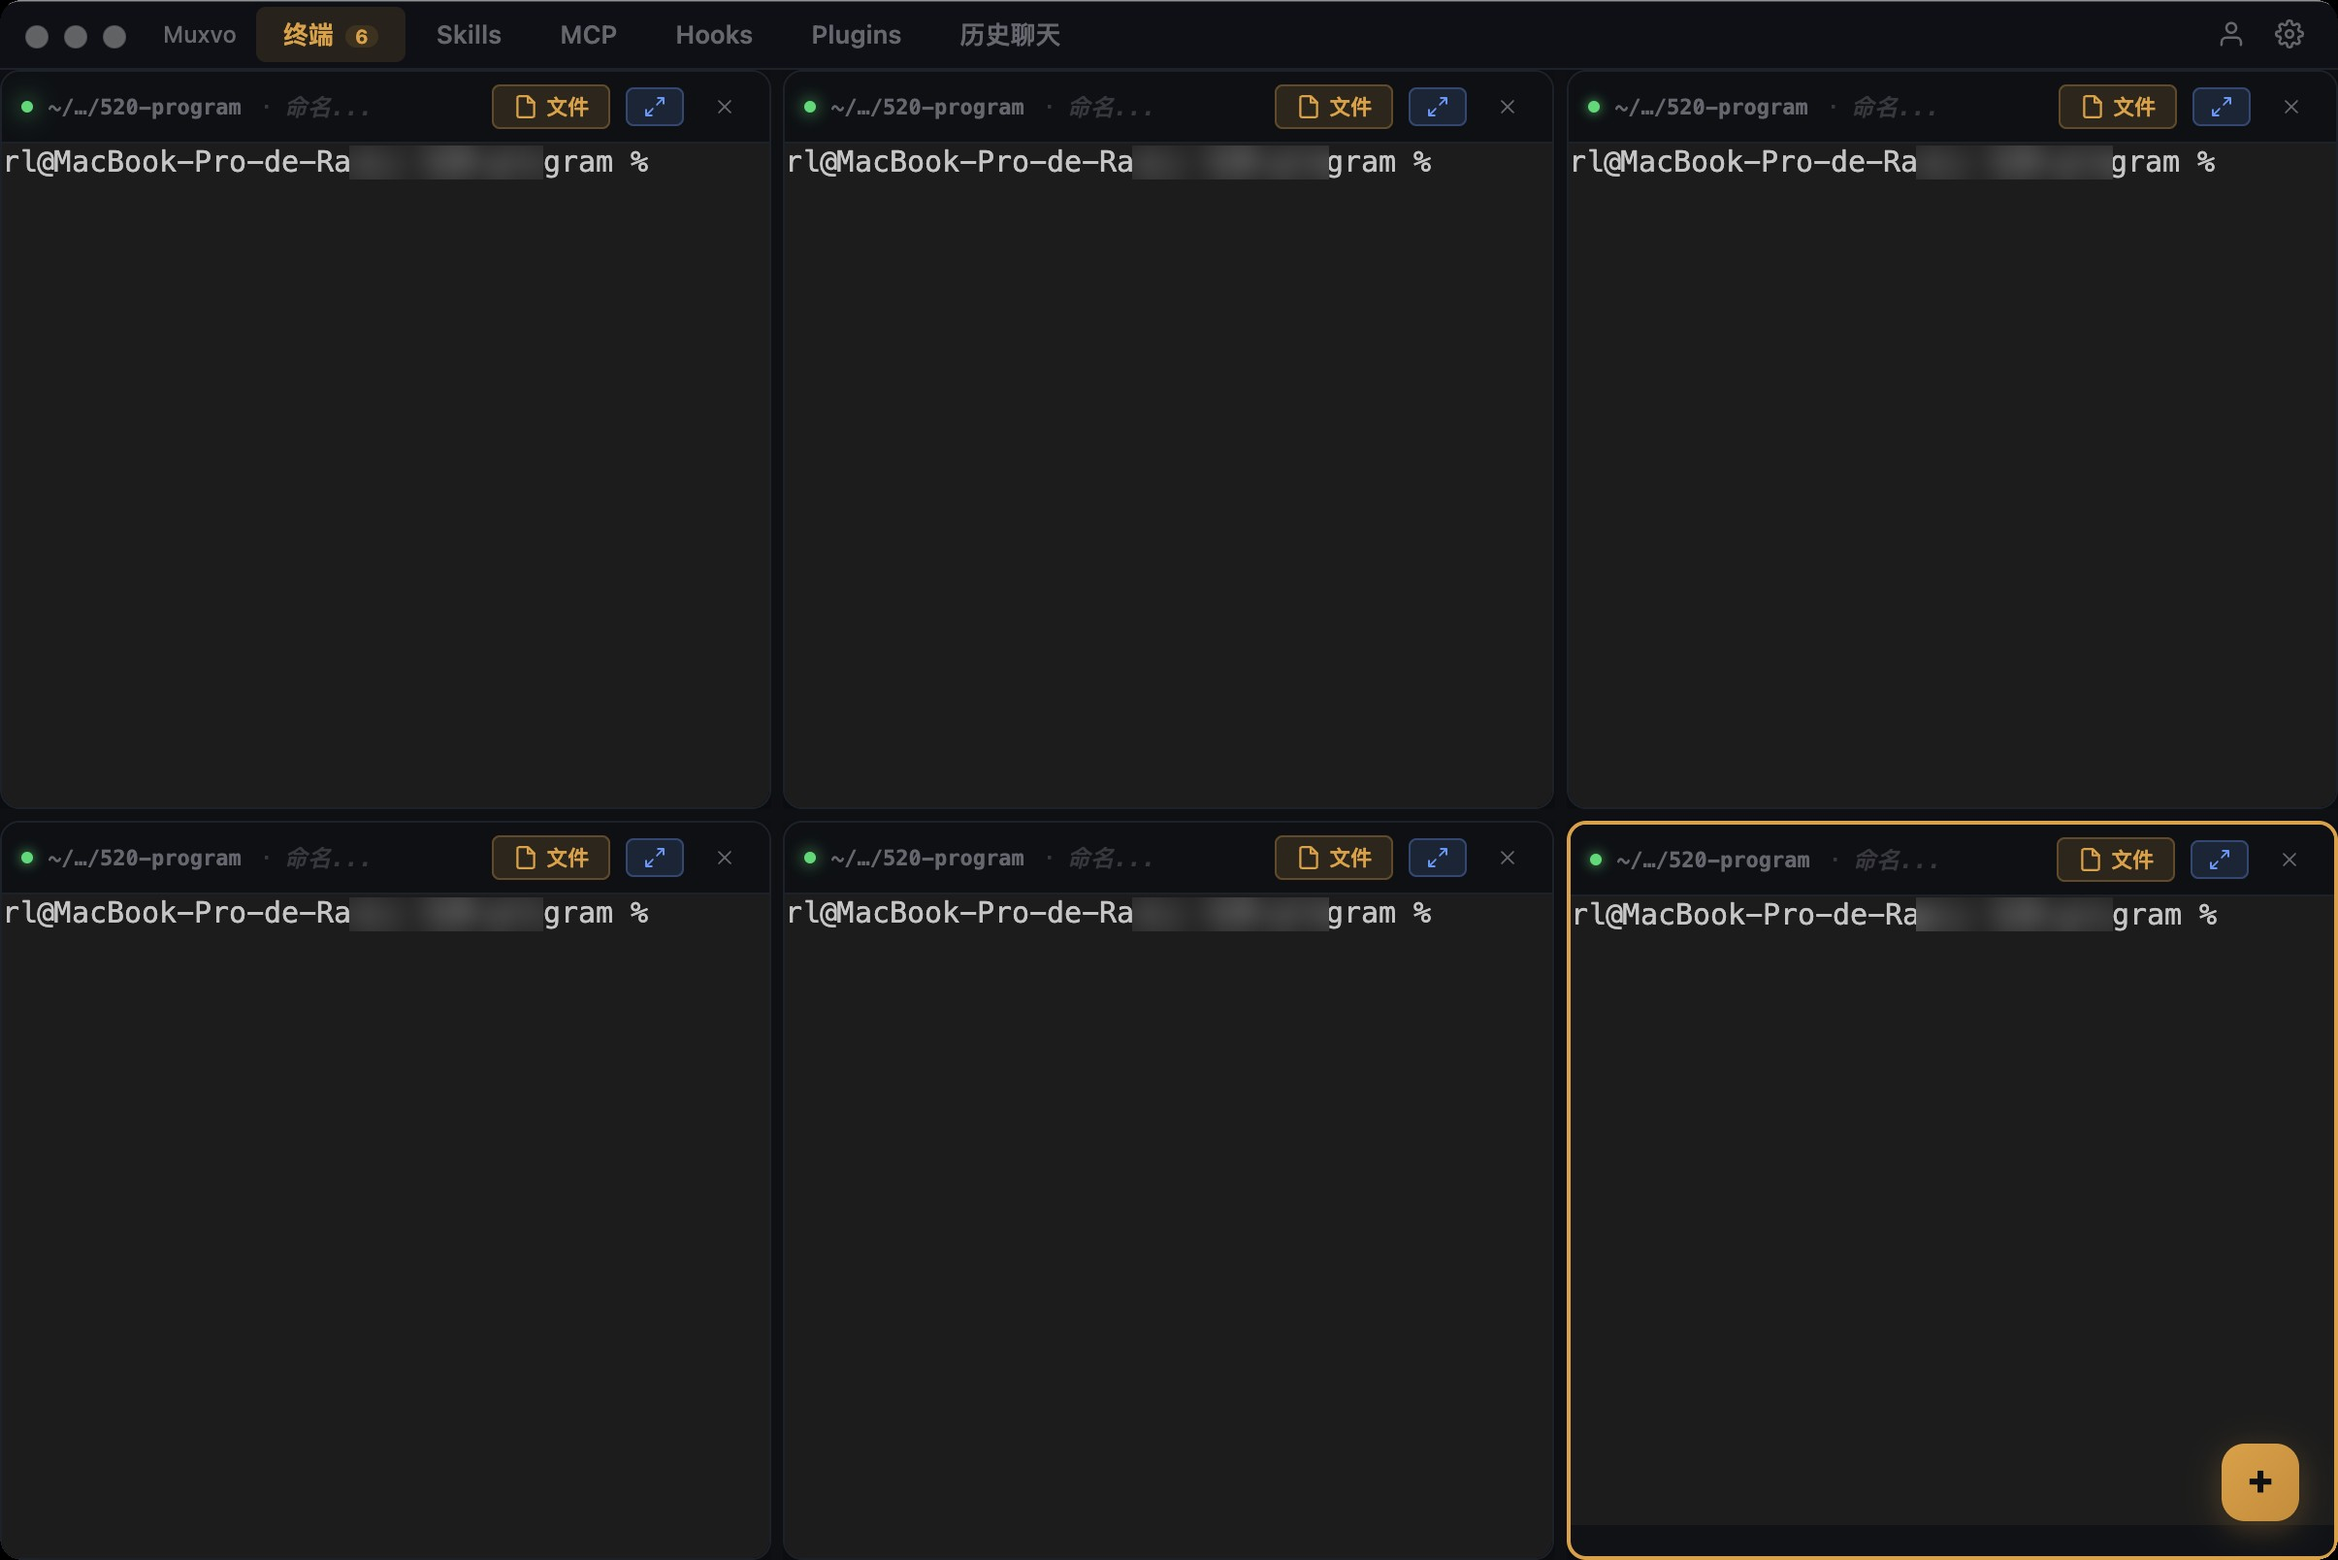
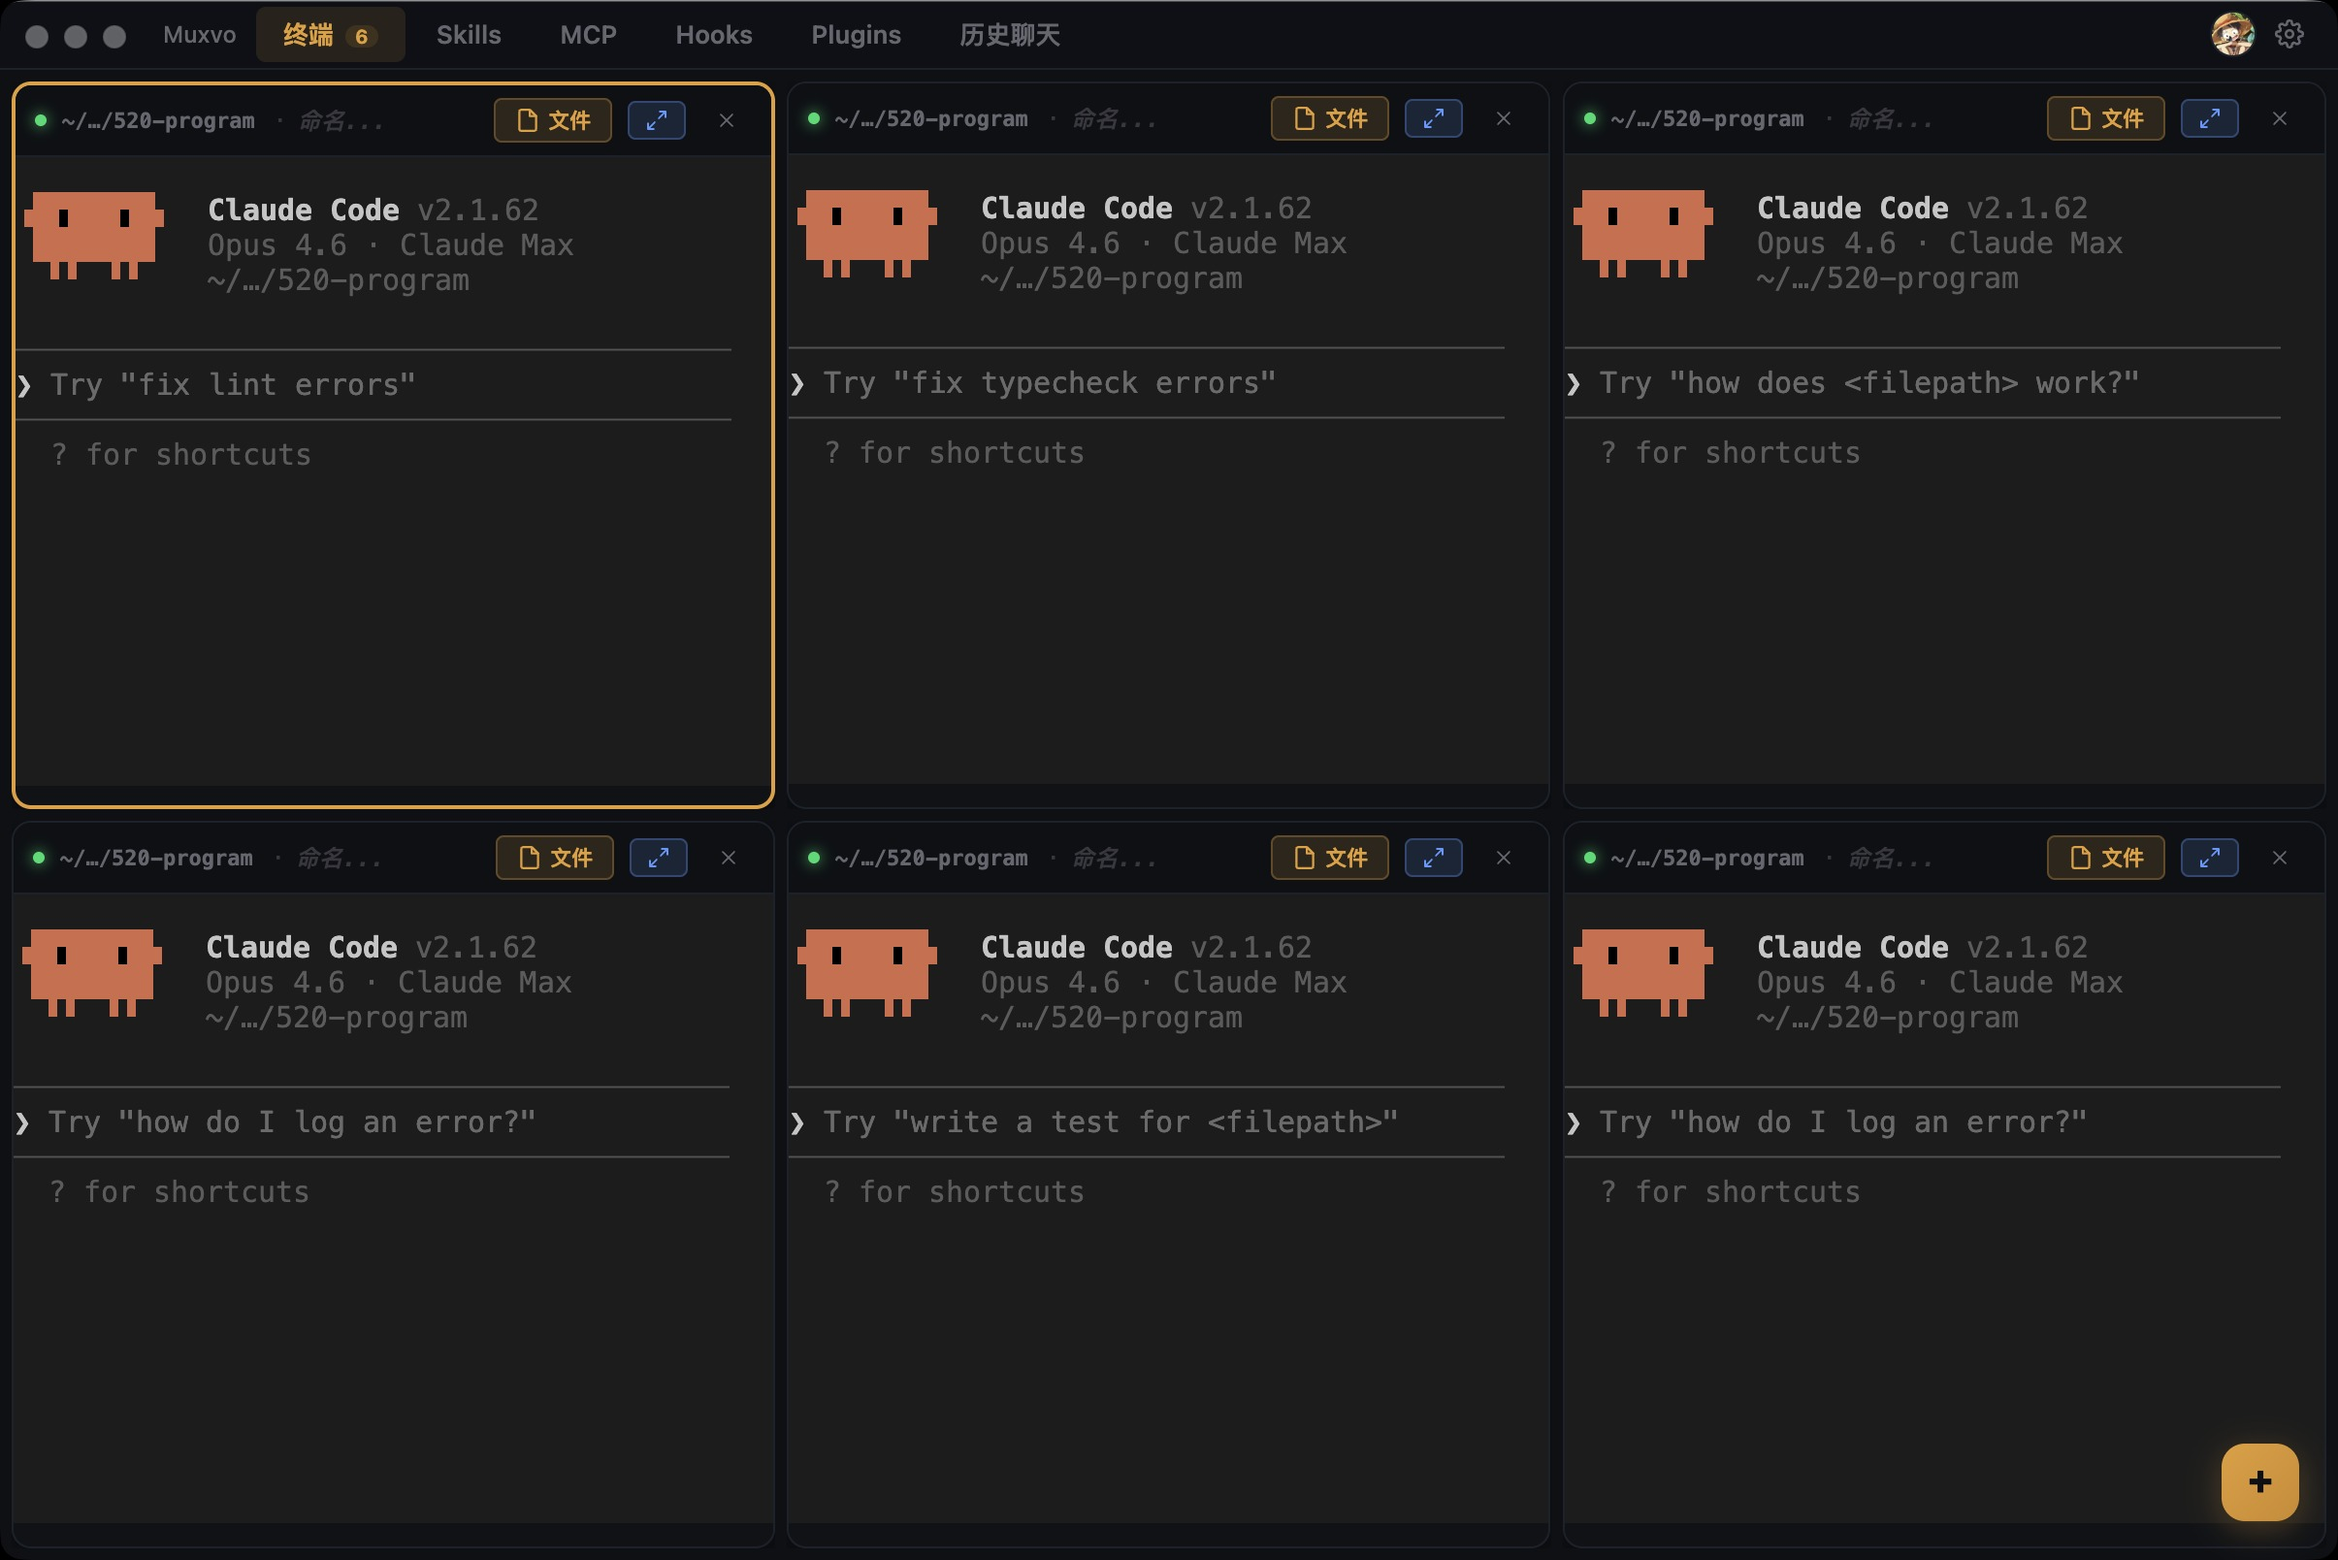
♻ refactor: 移除 node-pg-migrate 依赖并优化部署流程
- 从部署工作流中移除数据库迁移步骤
- 从服务端 package.json 中移除 node-pg-migrate 依赖及相关脚本
- 新增部署迁移验证测试，确保自定义迁移器正确解析 Up/Down 部分
- 更新暗色主题四终端截图

diff --git a/tests/verify/VERIFY-deploy-migration.test.ts b/tests/verify/VERIFY-deploy-migration.test.ts
@@ -1,0 +1,71 @@
+/**
+ * VERIFY: Deploy Server migration 双跑冲突修复
+ *
+ * 验证：
+ * 1. deploy-server.yml 不包含 node-pg-migrate migration step
+ * 2. server/package.json 不依赖 node-pg-migrate
+ * 3. 自定义 migrator (server/src/db/migrate.ts) 的 extractUpSection 正确解析 -- Up/-- Down
+ */
+import { readFileSync } from 'node:fs';
+import { resolve } from 'node:path';
+
+const ROOT = resolve(__dirname, '../..');
+
+describe('Deploy migration conflict fix', () => {
+  test('deploy-server.yml should NOT have node-pg-migrate step', () => {
+    const workflow = readFileSync(
+      resolve(ROOT, '.github/workflows/deploy-server.yml'),
+      'utf-8',
+    );
+    expect(workflow).not.toContain('migrate:up');
+    expect(workflow).not.toContain('node-pg-migrate');
+    expect(workflow).not.toContain('Run database migrations');
+  });
+
+  test('server/package.json should NOT depend on node-pg-migrate', () => {
+    const pkg = JSON.parse(
+      readFileSync(resolve(ROOT, 'server/package.json'), 'utf-8'),
+    );
+    expect(pkg.dependencies?.['node-pg-migrate']).toBeUndefined();
+    expect(pkg.scripts?.['migrate:up']).toBeUndefined();
+    expect(pkg.scripts?.['migrate:down']).toBeUndefined();
+  });
+
+  test('custom migrator extractUpSection correctly splits Up/Down', async () => {
+    // Read the migrate.ts source and extract the function logic
+    const migrateSource = readFileSync(
+      resolve(ROOT, 'server/src/db/migrate.ts'),
+      'utf-8',
+    );
+
+    // Verify the custom migrator exists and has extractUpSection
+    expect(migrateSource).toContain('function extractUpSection');
+    expect(migrateSource).toContain("sql.indexOf('-- Up')");
+    expect(migrateSource).toContain("sql.indexOf('-- Down')");
+
+    // Replicate the extractUpSection logic to verify it works
+    function extractUpSection(sql: string): string {
+      const upIdx = sql.indexOf('-- Up');
+      const downIdx = sql.indexOf('-- Down');
+      if (upIdx === -1) return sql;
+      const start = sql.indexOf('\n', upIdx);
+      if (start === -1) return '';
+      const end = downIdx === -1 ? sql.length : downIdx;
+      return sql.slice(start, end).trim();
+    }
+
+    // Test with a real migration file format
+    const sampleMigration = `-- Up
+CREATE TABLE users (
+    id UUID PRIMARY KEY
+);
+
+-- Down
+DROP TABLE IF EXISTS users;`;
+
+    const upSql = extractUpSection(sampleMigration);
+    expect(upSql).toContain('CREATE TABLE users');
+    expect(upSql).not.toContain('DROP TABLE');
+    expect(upSql).not.toContain('-- Down');
+  });
+});
